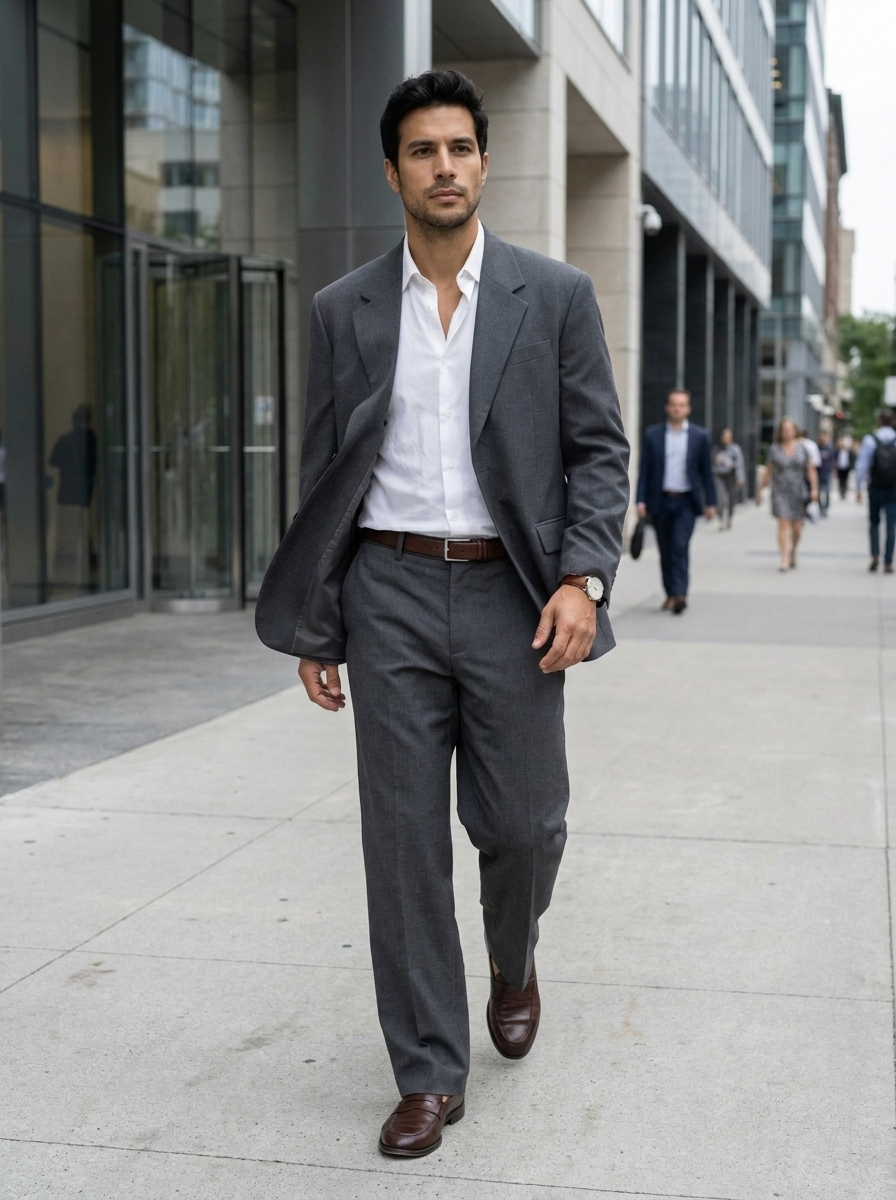
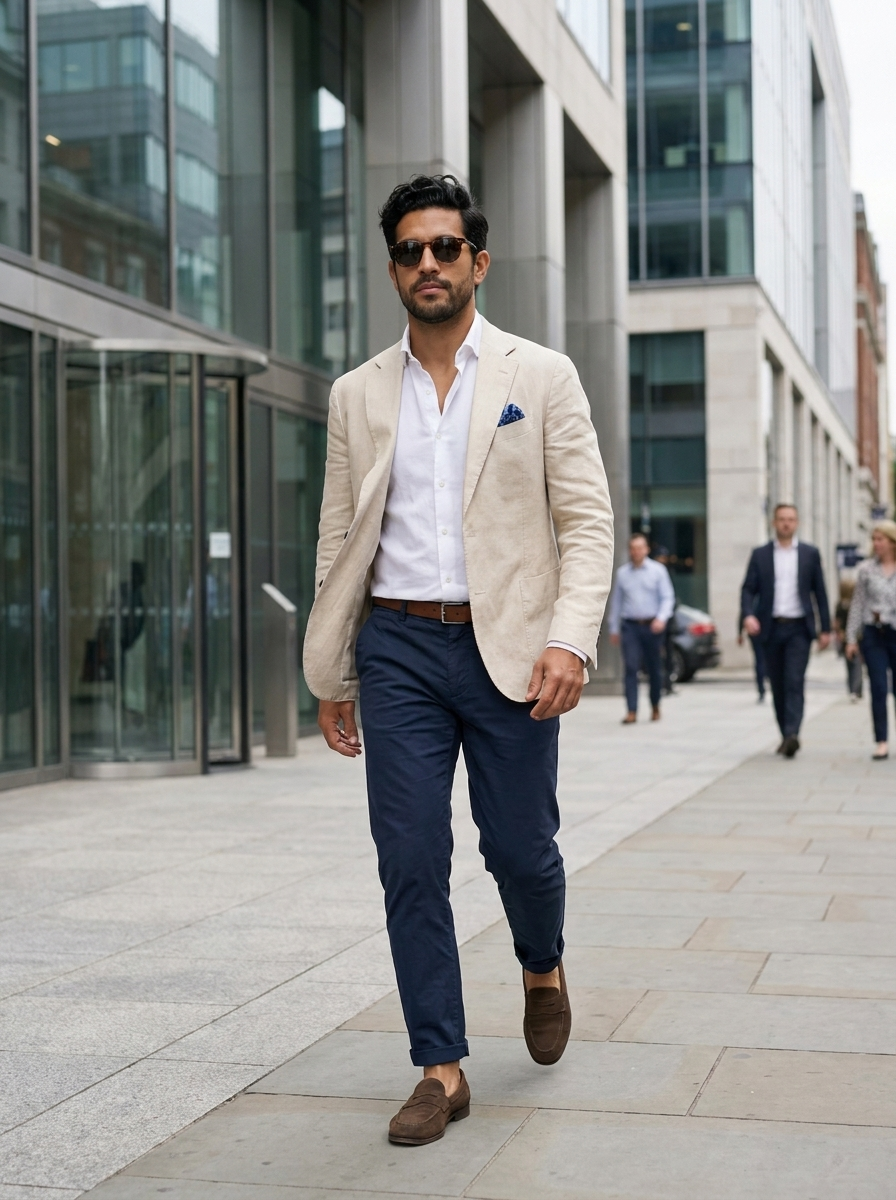
feat(deck): 14 cartas más con outfit elegido + rompe-caché (0.2.79.0)
DECK
Segunda ronda sobre las 17 que en 0.2.77.0 solo habían cambiado de escena.
Se cosecharon 287 fotos de Pinterest (búsqueda genérica por carta: buscar por
prenda sesga qué ropa le toca a cada estilo), un filtro de visión descartó 102
por formato —collages, portadas de blog con titular, flat lays, cuerpos
cortados, renders— y de lo que sobrevivió eligió 3 por carta juzgando contra la
receta destilada de su familia, no contra su gusto.

De esas Roberto eligió 14. Quedan sin tocar clásico elegante, vintage y color
protagonista. Smart casual se probó con una alternativa y se restauró la
anterior. Monocromático va con una referencia suya, descrita en texto porque
llegó por chat y no como archivo — de ahí la opción {texto} nueva del script,
que es la peor de las tres (sin foto el generador rellena la proporción con lo
más promedio que sabe) y por eso se apoya en la receta.

Grunge se rehízo dos veces: la primera elección traía chamarra de cuero y
quedaba casi igual que edgy, y dos cartas gemelas miden cero — que es justo lo
que el deck existe para evitar. Ahora va franela abierta sobre playera de
banda, jean roto y tenis: cero cuero, cero confusión.

ROMPE-CACHÉ
Las cartas se rehacen conservando su nombre de archivo, así que el navegador
cree que es la misma imagen y sirve la que ya tenía: se rehizo el deck entero y
en el teléfono no cambiaba nada. Ahora las rutas llevan `?v=N` (lib/looks.ts).

Next devuelve 400 a cualquier imagen LOCAL con query cuyo pathname no esté en
[…]

diff --git a/lib/looks-imagenes.test.ts b/lib/looks-imagenes.test.ts
@@ -14,7 +14,9 @@ import { LOOKS, looksForGender } from "./looks";
 // Es el peor tipo de bug — el que se ve como "la generación no quedó bien" y te
 // manda a re-generar imágenes en vez de a revisar el nombre del archivo.
 
-const publicPath = (src: string) => `public${src}`;
+// Las rutas llevan un rompe-caché (`?v=N`, ver lib/looks.ts): en disco no
+// existe ese sufijo, así que se quita antes de comprobar el archivo.
+const publicPath = (src: string) => `public${src.split("?")[0]}`;
 
 describe("imágenes del deck de swipes", () => {
   for (const gender of ["hombre", "mujer"] as const) {
@@ -33,9 +35,35 @@ describe("imágenes del deck de swipes", () => {
     const soloUnGenero = LOOKS.filter((l) => l.segment !== "unisex");
     expect(soloUnGenero.length).toBeGreaterThan(0);
     for (const l of soloUnGenero) {
-      expect(l.image).toBe(`/looks/${l.id}.png`);
+      expect(l.image?.split("?")[0]).toBe(`/looks/${l.id}.png`);
       expect(existsSync(`public/looks/${l.id}-mujer.png`)).toBe(false);
       expect(existsSync(`public/looks/${l.id}-hombre.png`)).toBe(false);
     }
+  });
+});
+
+describe("rompe-caché de las imágenes del deck", () => {
+  // Sin esto, rehacer una carta no se ve: el archivo conserva su nombre, el
+  // navegador cree que es la misma imagen de siempre y sirve la que tenía
+  // guardada. Pasó de verdad — se rehicieron las 25 cartas de hombre y en el
+  // teléfono seguían saliendo las viejas.
+  it("todas las rutas llevan versión", () => {
+    for (const gender of ["hombre", "mujer"] as const) {
+      for (const l of looksForGender(gender)) {
+        expect(l.image, `${l.id} (${gender}) sin ?v=`).toMatch(/\?v=\d+$/);
+      }
+    }
+  });
+
+  // El otro lado del acople: Next devuelve 400 a cualquier imagen LOCAL con
+  // query string cuyo pathname no esté declarado en images.localPatterns. Si
+  // alguien limpia esa config, el deck entero deja de cargar.
+  it("next.config declara /looks/** como local con query permitida", async () => {
+    const cfg = await import("../next.config");
+    const patrones = cfg.default.images?.localPatterns ?? [];
+    expect(
+      patrones.some((p) => p.pathname === "/looks/**" && p.search === ""),
+      "falta { pathname: '/looks/**', search: '' } en images.localPatterns"
+    ).toBe(true);
   });
 });

diff --git a/lib/looks.ts b/lib/looks.ts
@@ -71,6 +71,17 @@ const ESTILOS: EstiloRow[] = [
   ["de-salir", "De salir", "ceñido, corto y con actitud", ["ceñido", "atrevido", "glam"], "mujer"],
 ];
 
+// Rompe-caché de las imágenes del deck.
+//
+// Las cartas se rehacen conservando el nombre de archivo (minimalista-hombre.png
+// sigue siendo minimalista-hombre.png), así que para el navegador es la misma
+// imagen de siempre y sirve la que ya tenía guardada — se rehízo el deck entero
+// y en el teléfono seguían saliendo las cartas viejas. Subir este número cambia
+// la URL sin renombrar 50 archivos ni tocar los scripts que los generan.
+//
+// SÚBELO cada vez que se regeneren las imágenes del deck.
+const V = "4";
+
 export const LOOKS: Look[] = ESTILOS.map(([id, nombre, vibe, tags, segment = "unisex"]) => ({
   id,
   nombre,
@@ -80,7 +91,8 @@ export const LOOKS: Look[] = ESTILOS.map(([id, nombre, vibe, tags, segment = "un
   prendas: [],
   // Imagen por defecto: unisex usa el archivo de hombre; los específicos (p. ej.
   // coquette/mujer) usan /looks/<id>.png. looksForGender() resuelve por género.
-  image: segment === "unisex" ? `/looks/${id}-hombre.png` : `/looks/${id}.png`,
+  image:
+    segment === "unisex" ? `/looks/${id}-hombre.png?v=${V}` : `/looks/${id}.png?v=${V}`,
 }));
 
 export const LOOK_IDS = new Set(LOOKS.map((l) => l.id));
@@ -92,7 +104,9 @@ export function looksForGender(gender: "hombre" | "mujer"): Look[] {
   ).map((l) => ({
     ...l,
     image:
-      l.segment === "unisex" ? `/looks/${l.id}-${gender}.png` : `/looks/${l.id}.png`,
+      l.segment === "unisex"
+        ? `/looks/${l.id}-${gender}.png?v=${V}`
+        : `/looks/${l.id}.png?v=${V}`,
   }));
 }
 

diff --git a/next.config.ts b/next.config.ts
@@ -2,6 +2,17 @@ import type { NextConfig } from "next";
 
 const nextConfig: NextConfig = {
   images: {
+    // Next rechaza con 400 cualquier imagen LOCAL que traiga query string, salvo
+    // que su ruta esté declarada aquí. Las cartas del deck la necesitan: se
+    // rehacen conservando el nombre de archivo, así que sin un `?v=` el
+    // navegador sigue sirviendo la carta vieja que ya tenía en caché (pasó: se
+    // rehizo el deck de hombre entero y en el teléfono no cambió nada).
+    // `search: ""` permite cualquier query en esa ruta; el número vive en
+    // lib/looks.ts.
+    localPatterns: [
+      { pathname: "/looks/**", search: "" },
+      { pathname: "/**" },
+    ],
     // Las fotos propias de prendas vienen del Storage de Supabase (URL firmada).
     remotePatterns: [
       {
